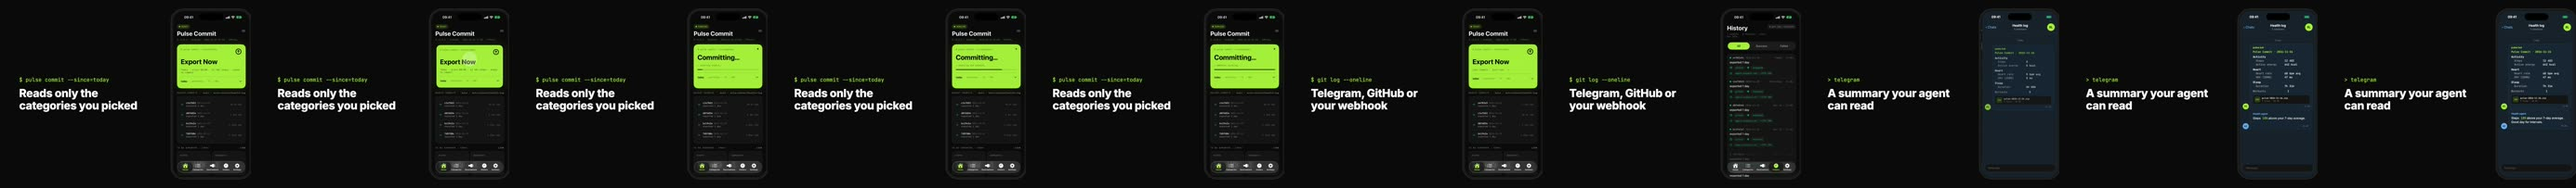
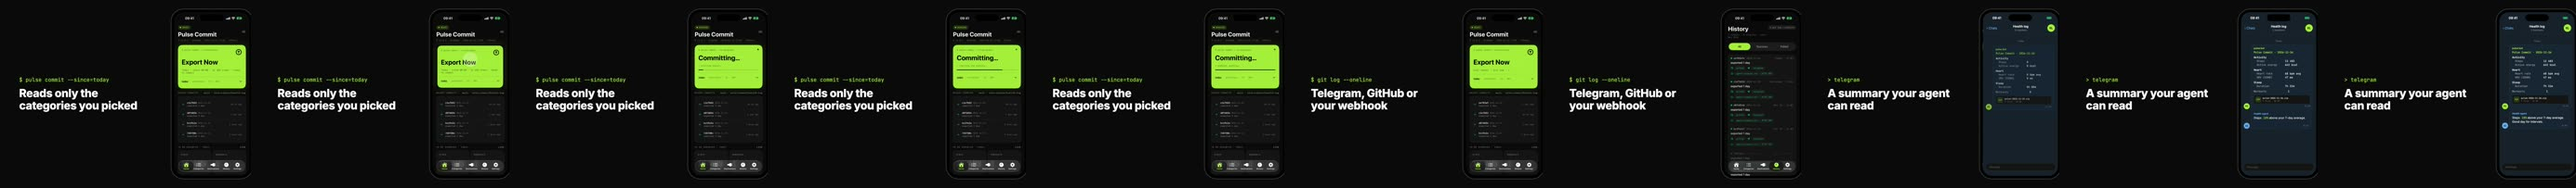
Store shots: clearer device frame, Webhook from the top, real intent name in kicker

diff --git a/marketing/video/src/Phone.tsx b/marketing/video/src/Phone.tsx
@@ -2,12 +2,16 @@ import { ISLAND, SCREEN } from "./layout";
 
 type ScreenSize = { width: number; height: number };
 
+const BEZEL = 0.02;
+const EDGE = 0.004;
+
 export const Phone: React.FC<{ height: number; screen?: ScreenSize; children: React.ReactNode }> = ({
   height,
   screen = SCREEN,
   children,
 }) => {
-  const bezel = Math.round(height * 0.014);
+  const bezel = Math.round(height * BEZEL);
+  const edge = Math.max(3, Math.round(height * EDGE));
   const screenH = height - bezel * 2;
   const scale = screenH / screen.height;
   const screenW = screen.width * scale;
@@ -21,8 +25,8 @@ export const Phone: React.FC<{ height: number; screen?: ScreenSize; children: Re
         width,
         height,
         borderRadius: radius,
-        background: "#1a1a1a",
-        boxShadow: "inset 0 0 0 2px rgba(255,255,255,0.14)",
+        background: "#000",
+        boxShadow: `inset 0 0 0 ${edge}px #3a3a3a`,
         padding: bezel,
         boxSizing: "border-box",
       }}
@@ -34,6 +38,7 @@ export const Phone: React.FC<{ height: number; screen?: ScreenSize; children: Re
           height: screenH,
           borderRadius: radius - bezel,
           overflow: "hidden",
+          clipPath: `inset(0 round ${radius - bezel}px)`,
           background: "#000",
         }}
       >
@@ -67,6 +72,6 @@ export const Phone: React.FC<{ height: number; screen?: ScreenSize; children: Re
 };
 
 export function phoneWidth(height: number, screen: ScreenSize = SCREEN): number {
-  const bezel = Math.round(height * 0.014);
+  const bezel = Math.round(height * BEZEL);
   return (screen.width * (height - bezel * 2)) / screen.height + bezel * 2;
 }

diff --git a/PulseCommit/UI/Destinations/WebhookDestinationView.swift b/PulseCommit/UI/Destinations/WebhookDestinationView.swift
@@ -14,7 +14,7 @@ struct WebhookDestinationView: View {
     }
 
     @EnvironmentObject var container: AppContainer
-    private let sendTestRequest: TestSender?
+    private let sendTestRequest: TestSender
     private let initialScrollAnchor: String?
 
     @State private var endpoint = ""
@@ -35,7 +35,7 @@ struct WebhookDestinationView: View {
         initialDraft: WebhookSettingsDraft? = nil,
         initialTestStatus: TestStatus = .idle,
         initialScrollAnchor: String? = nil,
-        sendTest: TestSender? = nil
+        sendTest: @escaping TestSender = WebhookDestinationView.liveSendTest
     ) {
         self.sendTestRequest = sendTest
         _testStatus = State(initialValue: initialTestStatus)
@@ -405,7 +405,7 @@ struct WebhookDestinationView: View {
         Task { @MainActor in
             await persist(submitted)
             do {
-                let status = try await (sendTestRequest ?? container.webhookTestSender)(configuration, Self.appVersion)
+                let status = try await sendTestRequest(configuration, Self.appVersion)
                 guard draft == submitted else { return }
                 testStatus = .delivered(host: configuration.host, statusCode: status)
             } catch {

diff --git a/PulseCommitMarketingUITests/StoreCaptureUITests.swift b/PulseCommitMarketingUITests/StoreCaptureUITests.swift
@@ -25,10 +25,10 @@ final class StoreCaptureUITests: XCTestCase {
         capture("store-destinations")
 
         app.staticTexts["agent.example.net"].tap()
-        let sendTest = app.buttons["Send test (no Health data)"]
-        XCTAssertTrue(sendTest.waitForExistence(timeout: 10))
-        sendTest.tap()
-        XCTAssertTrue(app.staticTexts["webhook.testStatus"].waitForExistence(timeout: 10))
+        let endpoint = app.textFields["webhook.endpoint"]
+        XCTAssertTrue(endpoint.waitForExistence(timeout: 10))
+        let loaded = XCTNSPredicateExpectation(predicate: NSPredicate(format: "value CONTAINS 'agent.example.net'"), object: endpoint)
+        XCTAssertEqual(XCTWaiter().wait(for: [loaded], timeout: 10), .completed)
         XCTAssertTrue(app.staticTexts["webhook.token"].isHittable)
         pause(1.5)
         capture("store-webhook")

diff --git a/marketing/video/src/store.ts b/marketing/video/src/store.ts
@@ -20,7 +20,7 @@ export const STORE_SHOTS: StoreShot[] = [
   { slug: "history", screen: "store-history", kicker: "$ git log --oneline", title: "One commit per day, in your own repo" },
   { slug: "home", screen: "store-home", kicker: "$ pulse commit --since=today", title: "Export now, or let Shortcuts run it" },
   { slug: "destinations", screen: "store-destinations", kicker: "$ pulse remote -v", title: "Telegram, GitHub and your webhook" },
-  { slug: "automate", screen: "store-automate", kicker: "$ shortcuts run \"Export Today\"", title: "Today at 21:00 or yesterday at 08:30" },
+  { slug: "automate", screen: "store-automate", kicker: "$ shortcuts run \"Export Health Data\"", title: "Today at 21:00 or yesterday at 08:30" },
 ];
 
 export const CAPTURED_SCREENS = STORE_SHOTS.map((s) => s.screen).filter((s) => s !== "telegram");

diff --git a/PulseCommitTests/MarketingDemoTests.swift b/PulseCommitTests/MarketingDemoTests.swift
@@ -29,14 +29,6 @@ final class MarketingDemoTests: XCTestCase {
         XCTAssertTrue(token.hasPrefix("demo"))
     }
 
-    func test_container_webhookTestReturns200WithoutNetwork() async throws {
-        let container = MarketingDemo.makeContainer(stepDelay: .zero)
-        let stored = await container.currentWebhookConfiguration()
-        let configuration = try XCTUnwrap(stored)
-        let status = try await container.webhookTestSender(configuration, "1.0.2")
-        XCTAssertEqual(status, 200)
-    }
-
     func test_container_seedsWebhookHistoryRows() throws {
         let container = MarketingDemo.makeContainer(stepDelay: .zero)
         let entries = try container.history.recentEntries(limit: 50)

diff --git a/PulseCommit/Composition/AppContainer.swift b/PulseCommit/Composition/AppContainer.swift
@@ -15,7 +15,6 @@ final class AppContainer: ObservableObject {
     private(set) var automaticWorkoutCoordinator: AutomaticWorkoutDeliveryCoordinator?
     private(set) var automaticWorkoutObserverController: AutomaticWorkoutObserverController?
     @Published private(set) var automaticWorkoutStateRevision: UInt64 = 0
-    var webhookTestSender: WebhookDestinationView.TestSender = WebhookDestinationView.liveSendTest
     private let factoryClosure: @MainActor (AppContainer) async -> Orchestrator
 
     private var cachedGithubProvider: DeviceFlowCredentialProvider?

diff --git a/PulseCommit/Marketing/MarketingDemo.swift b/PulseCommit/Marketing/MarketingDemo.swift
@@ -84,7 +84,6 @@ enum MarketingDemo {
                 )
             }
         )
-        container.webhookTestSender = { _, _ in 200 }
         return container
     }
 

diff --git a/marketing/video/README.md b/marketing/video/README.md
@@ -38,7 +38,7 @@ scripts/make-store-screenshots.sh
 ```
 
 1. Takes the same lock, boots the `iPhone 18 Pro Max` iOS 27.0 simulator (6.9-inch, 1320x2868 screenshots; override with `SIM_NAME` / `SIM_OS`) and pins the status bar to 9:41.
-2. Runs only `StoreCaptureUITests` from the `PulseCommitMarketing` scheme. With `-marketingDemo` it captures Home, History, Destinations, the Webhook screen after a stubbed test request (HTTP 200, no network) and Automate into `public/store/` (not committed).
+2. Runs only `StoreCaptureUITests` from the `PulseCommitMarketing` scheme. With `-marketingDemo` it captures Home, History, Destinations, the Webhook screen (endpoint, masked token, payload) and Automate into `public/store/` (not committed).
 3. Runs `npm run render:store`. The `StoreShot` still frames each capture in a phone with its kicker and caption at 1320x2868, converts it to RGB PNG without alpha and writes `marketing/screenshots/out/01-telegram.png` to `06-automate.png` (not committed). Screenshot 1 is the React Telegram scene from the hero video, so it is illustrative, not a capture.
 4. Writes the committed `marketing/screenshots/preview/contact-sheet.jpg` (under 400 KB) and fails if any PNG is not 1320x2868 or has alpha.
 
@@ -46,7 +46,7 @@ Captions and kickers live in `src/store.ts` and are covered by `npm test`. `--sk
 
 ## Demo data
 
-`-marketingDemo` is read only in Debug builds (`PulseCommit/Marketing/MarketingDemo.swift` is wrapped in `#if DEBUG`, and so is the seam in `AppContainer.shared`). It builds an in-memory container with no Keychain, HealthKit or network access: six fake categories, three stub sinks (GitHub, Telegram and a webhook at the synthetic host `agent.example.net`) that sleep and return fixed references, seeded History rows (the three most recent include the webhook), a stubbed webhook test request that returns HTTP 200, and a throwaway `UserDefaults` suite. The Telegram scene is drawn in React and uses the same numbers (12 483 steps, 642 kcal, 7h 31m sleep, HRV 47 ms).
+`-marketingDemo` is read only in Debug builds (`PulseCommit/Marketing/MarketingDemo.swift` is wrapped in `#if DEBUG`, and so is the seam in `AppContainer.shared`). It builds an in-memory container with no Keychain, HealthKit or network access: six fake categories, three stub sinks (GitHub, Telegram and a webhook at the synthetic host `agent.example.net`) that sleep and return fixed references, seeded History rows (the three most recent include the webhook) and a throwaway `UserDefaults` suite. The Telegram scene is drawn in React and uses the same numbers (12 483 steps, 642 kcal, 7h 31m sleep, HRV 47 ms).
 
 ## Storyboard
 

diff --git a/docs/store/screenshots-plan.md b/docs/store/screenshots-plan.md
@@ -13,11 +13,11 @@ Primary reference: [Apple — Screenshot specifications](https://developer.apple
 | File | Kicker | Caption | Screen |
 | --- | --- | --- | --- |
 | `01-telegram.png` | `> telegram` | Apple Health, every evening, to your AI agent | Telegram chat drawn in React (illustrative, not a capture) |
-| `02-webhook.png` | `$ pulse remote add webhook` | POST to any endpoint you own | Webhook screen, masked token, stubbed test HTTP 200 |
+| `02-webhook.png` | `$ pulse remote add webhook` | POST to any endpoint you own | Webhook screen: endpoint, masked token, payload |
 | `03-history.png` | `$ git log --oneline` | One commit per day, in your own repo | History |
 | `04-home.png` | `$ pulse commit --since=today` | Export now, or let Shortcuts run it | Home, Export Now |
 | `05-destinations.png` | `$ pulse remote -v` | Telegram, GitHub and your webhook | Destinations, three configured |
-| `06-automate.png` | `$ shortcuts run "Export Today"` | Today at 21:00 or yesterday at 08:30 | Automate |
+| `06-automate.png` | `$ shortcuts run "Export Health Data"` | Today at 21:00 or yesterday at 08:30 | Automate |
 
 Captions 1-3 come from the 1.0.2 design canvas. Captions 4-6 and all kickers were written for this set. App screens 2-6 are captured from the Debug app with the `-marketingDemo` seam: synthetic data, the synthetic host `agent.example.net` and a fake token. They are screenshot preparation, not evidence of live delivery or a real Health export.
 
